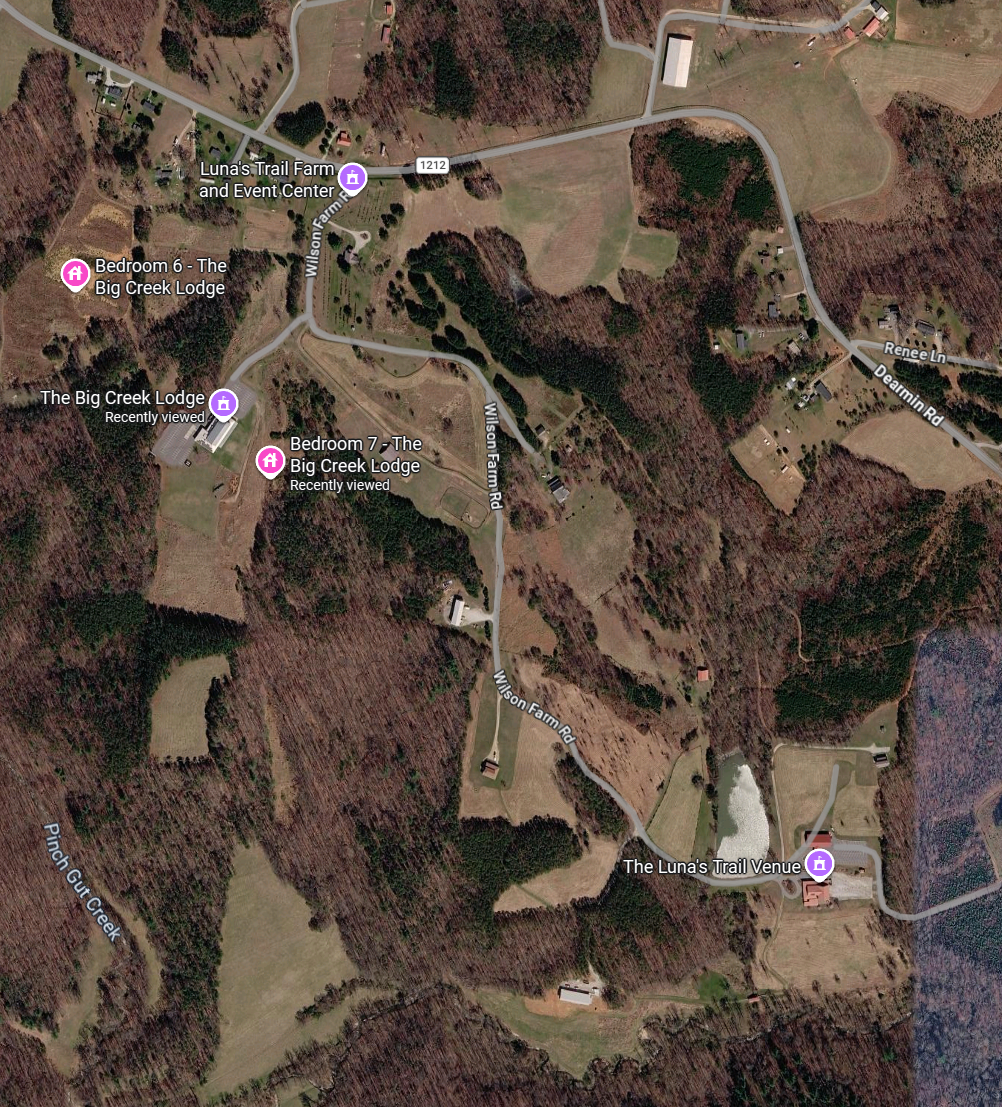
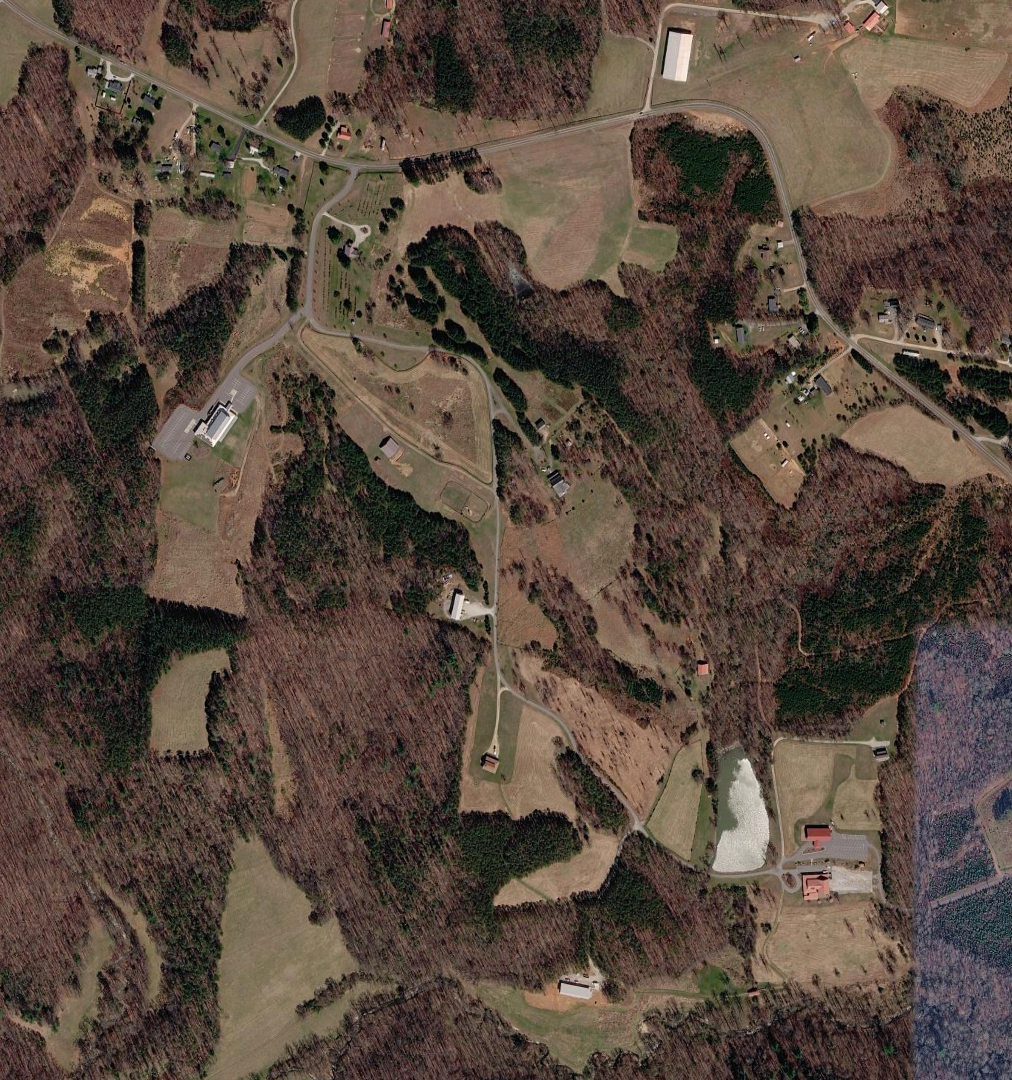
new map

diff --git a/styles.css b/styles.css
@@ -495,7 +495,7 @@ footer {
 
 @media (max-width: 700px) {
   .property-map__image { border-radius: 3px 3px 0 0; }
-  .property-map__markers { bottom: auto; aspect-ratio: 1002 / 1107; }
+  .property-map__markers { bottom: auto; aspect-ratio: 1012 / 1080; }
   .property-card {
     position: relative;
     left: auto;
